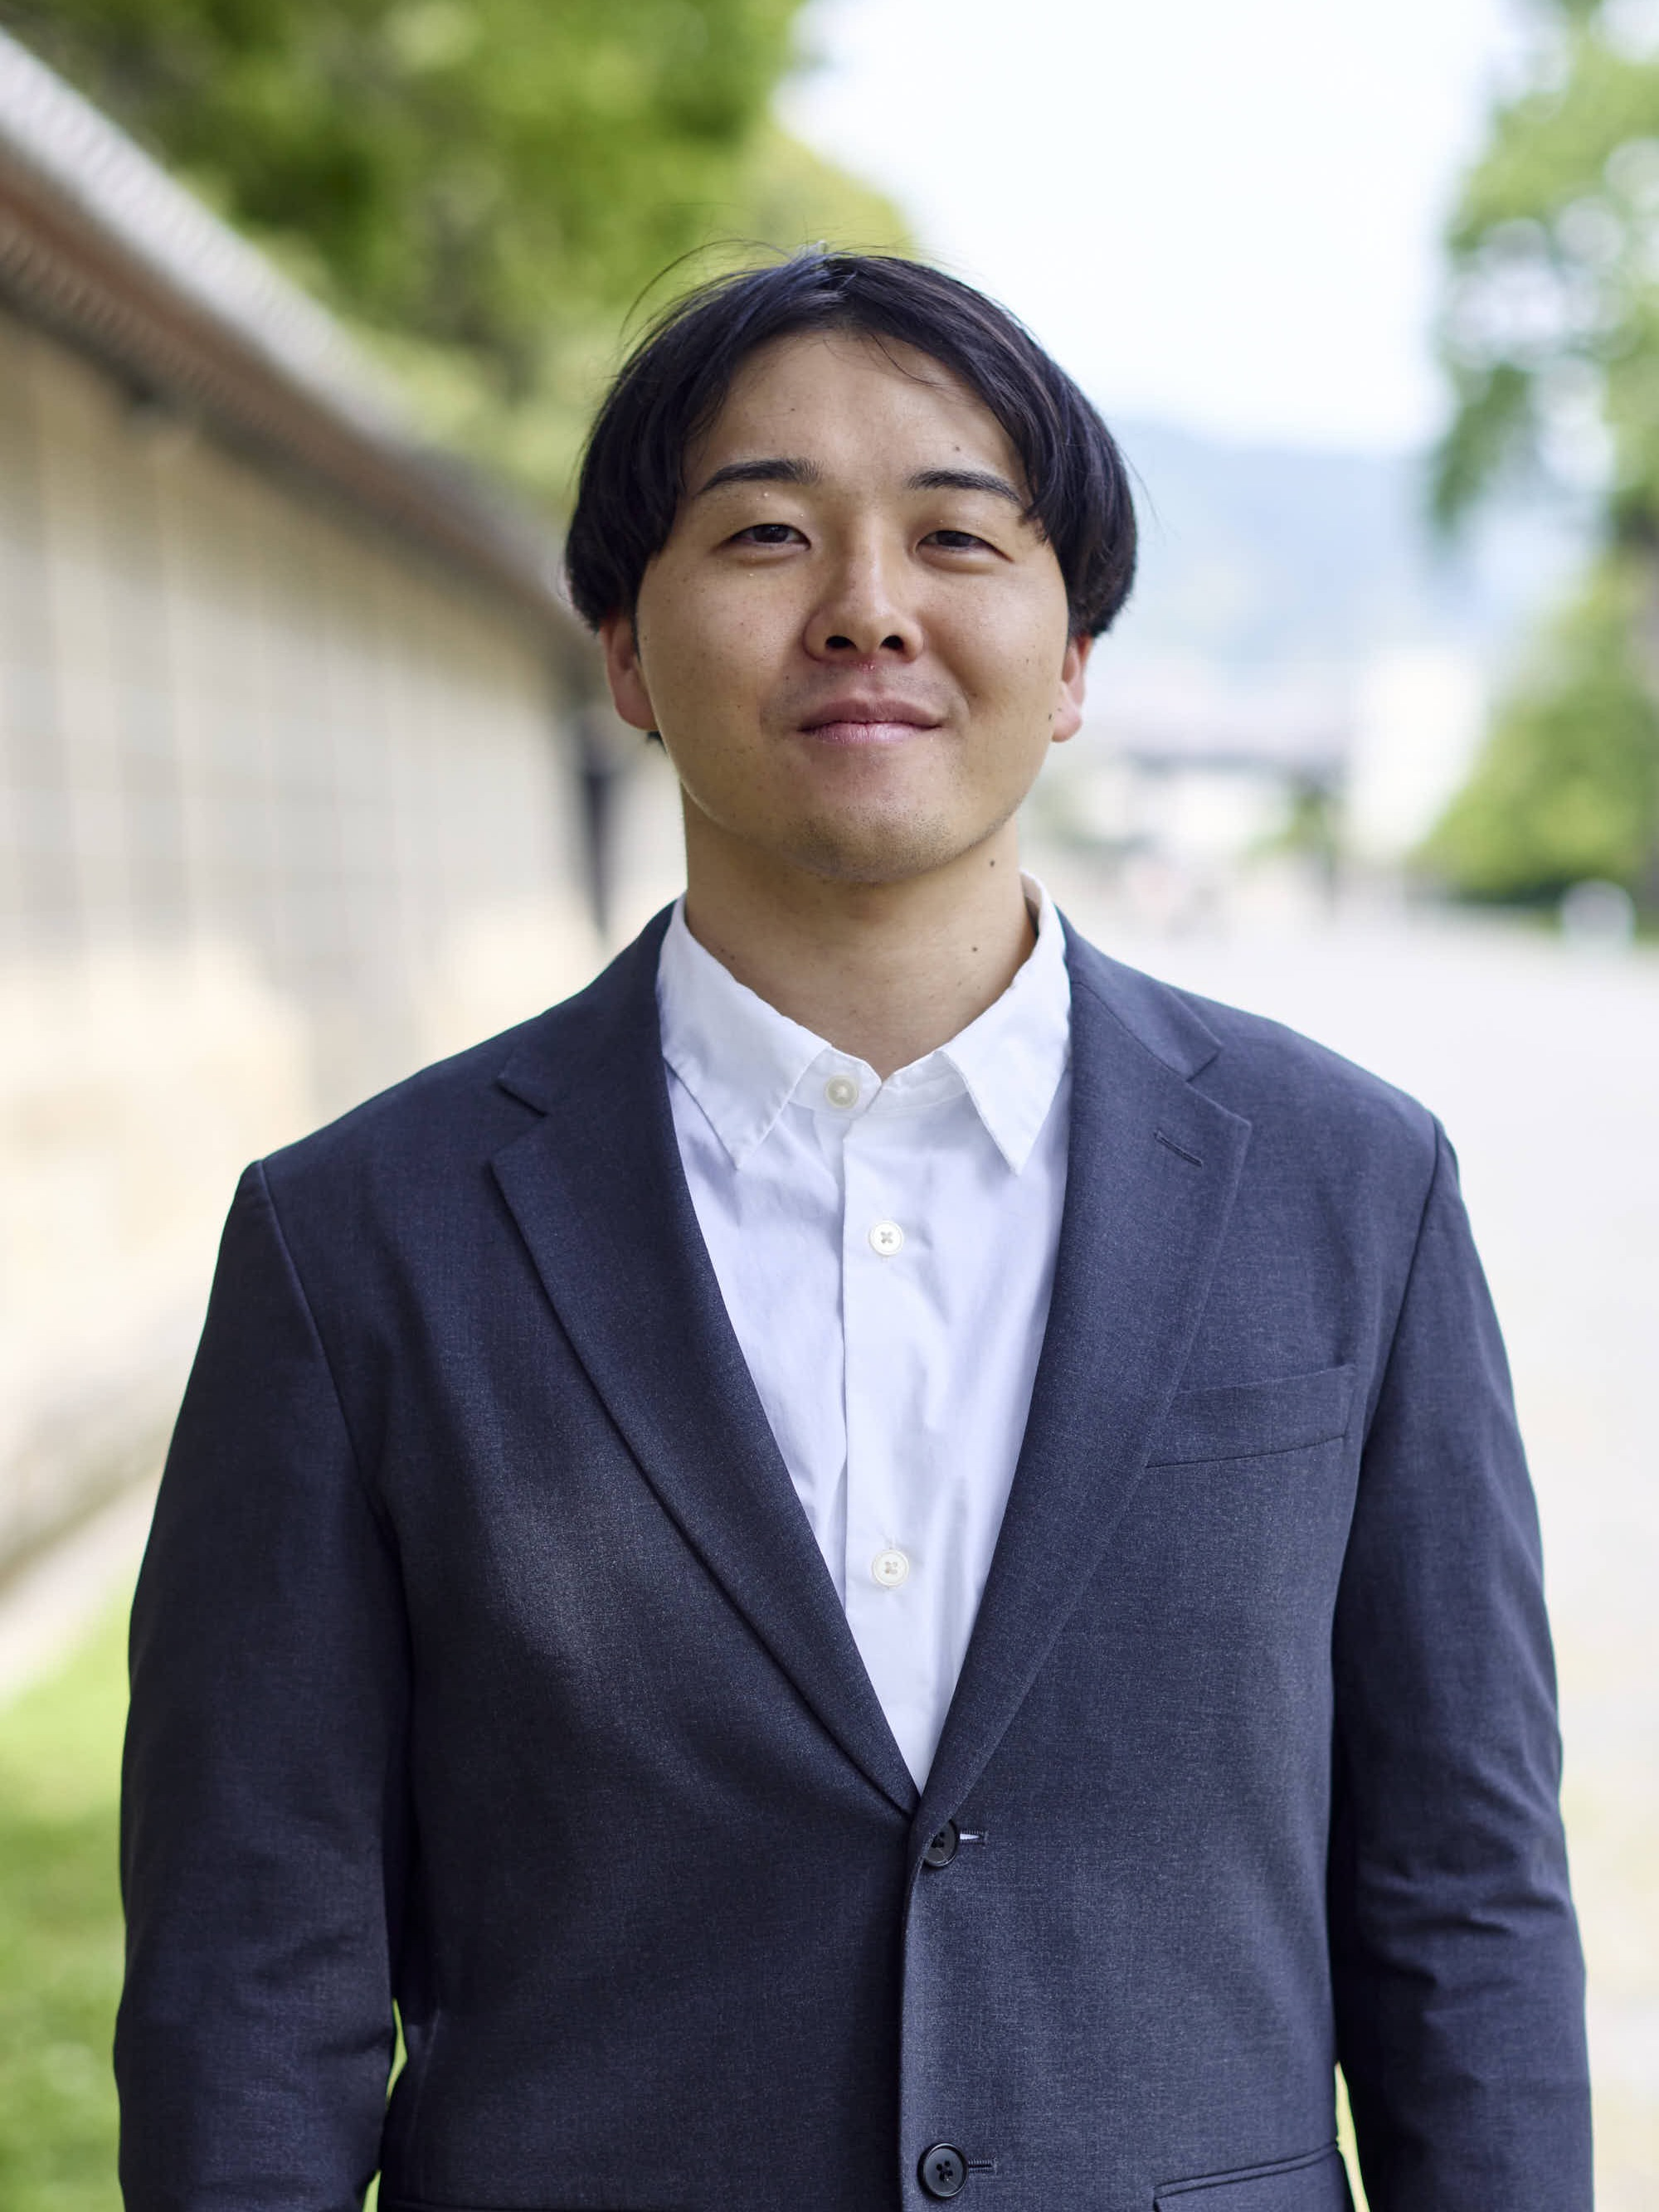
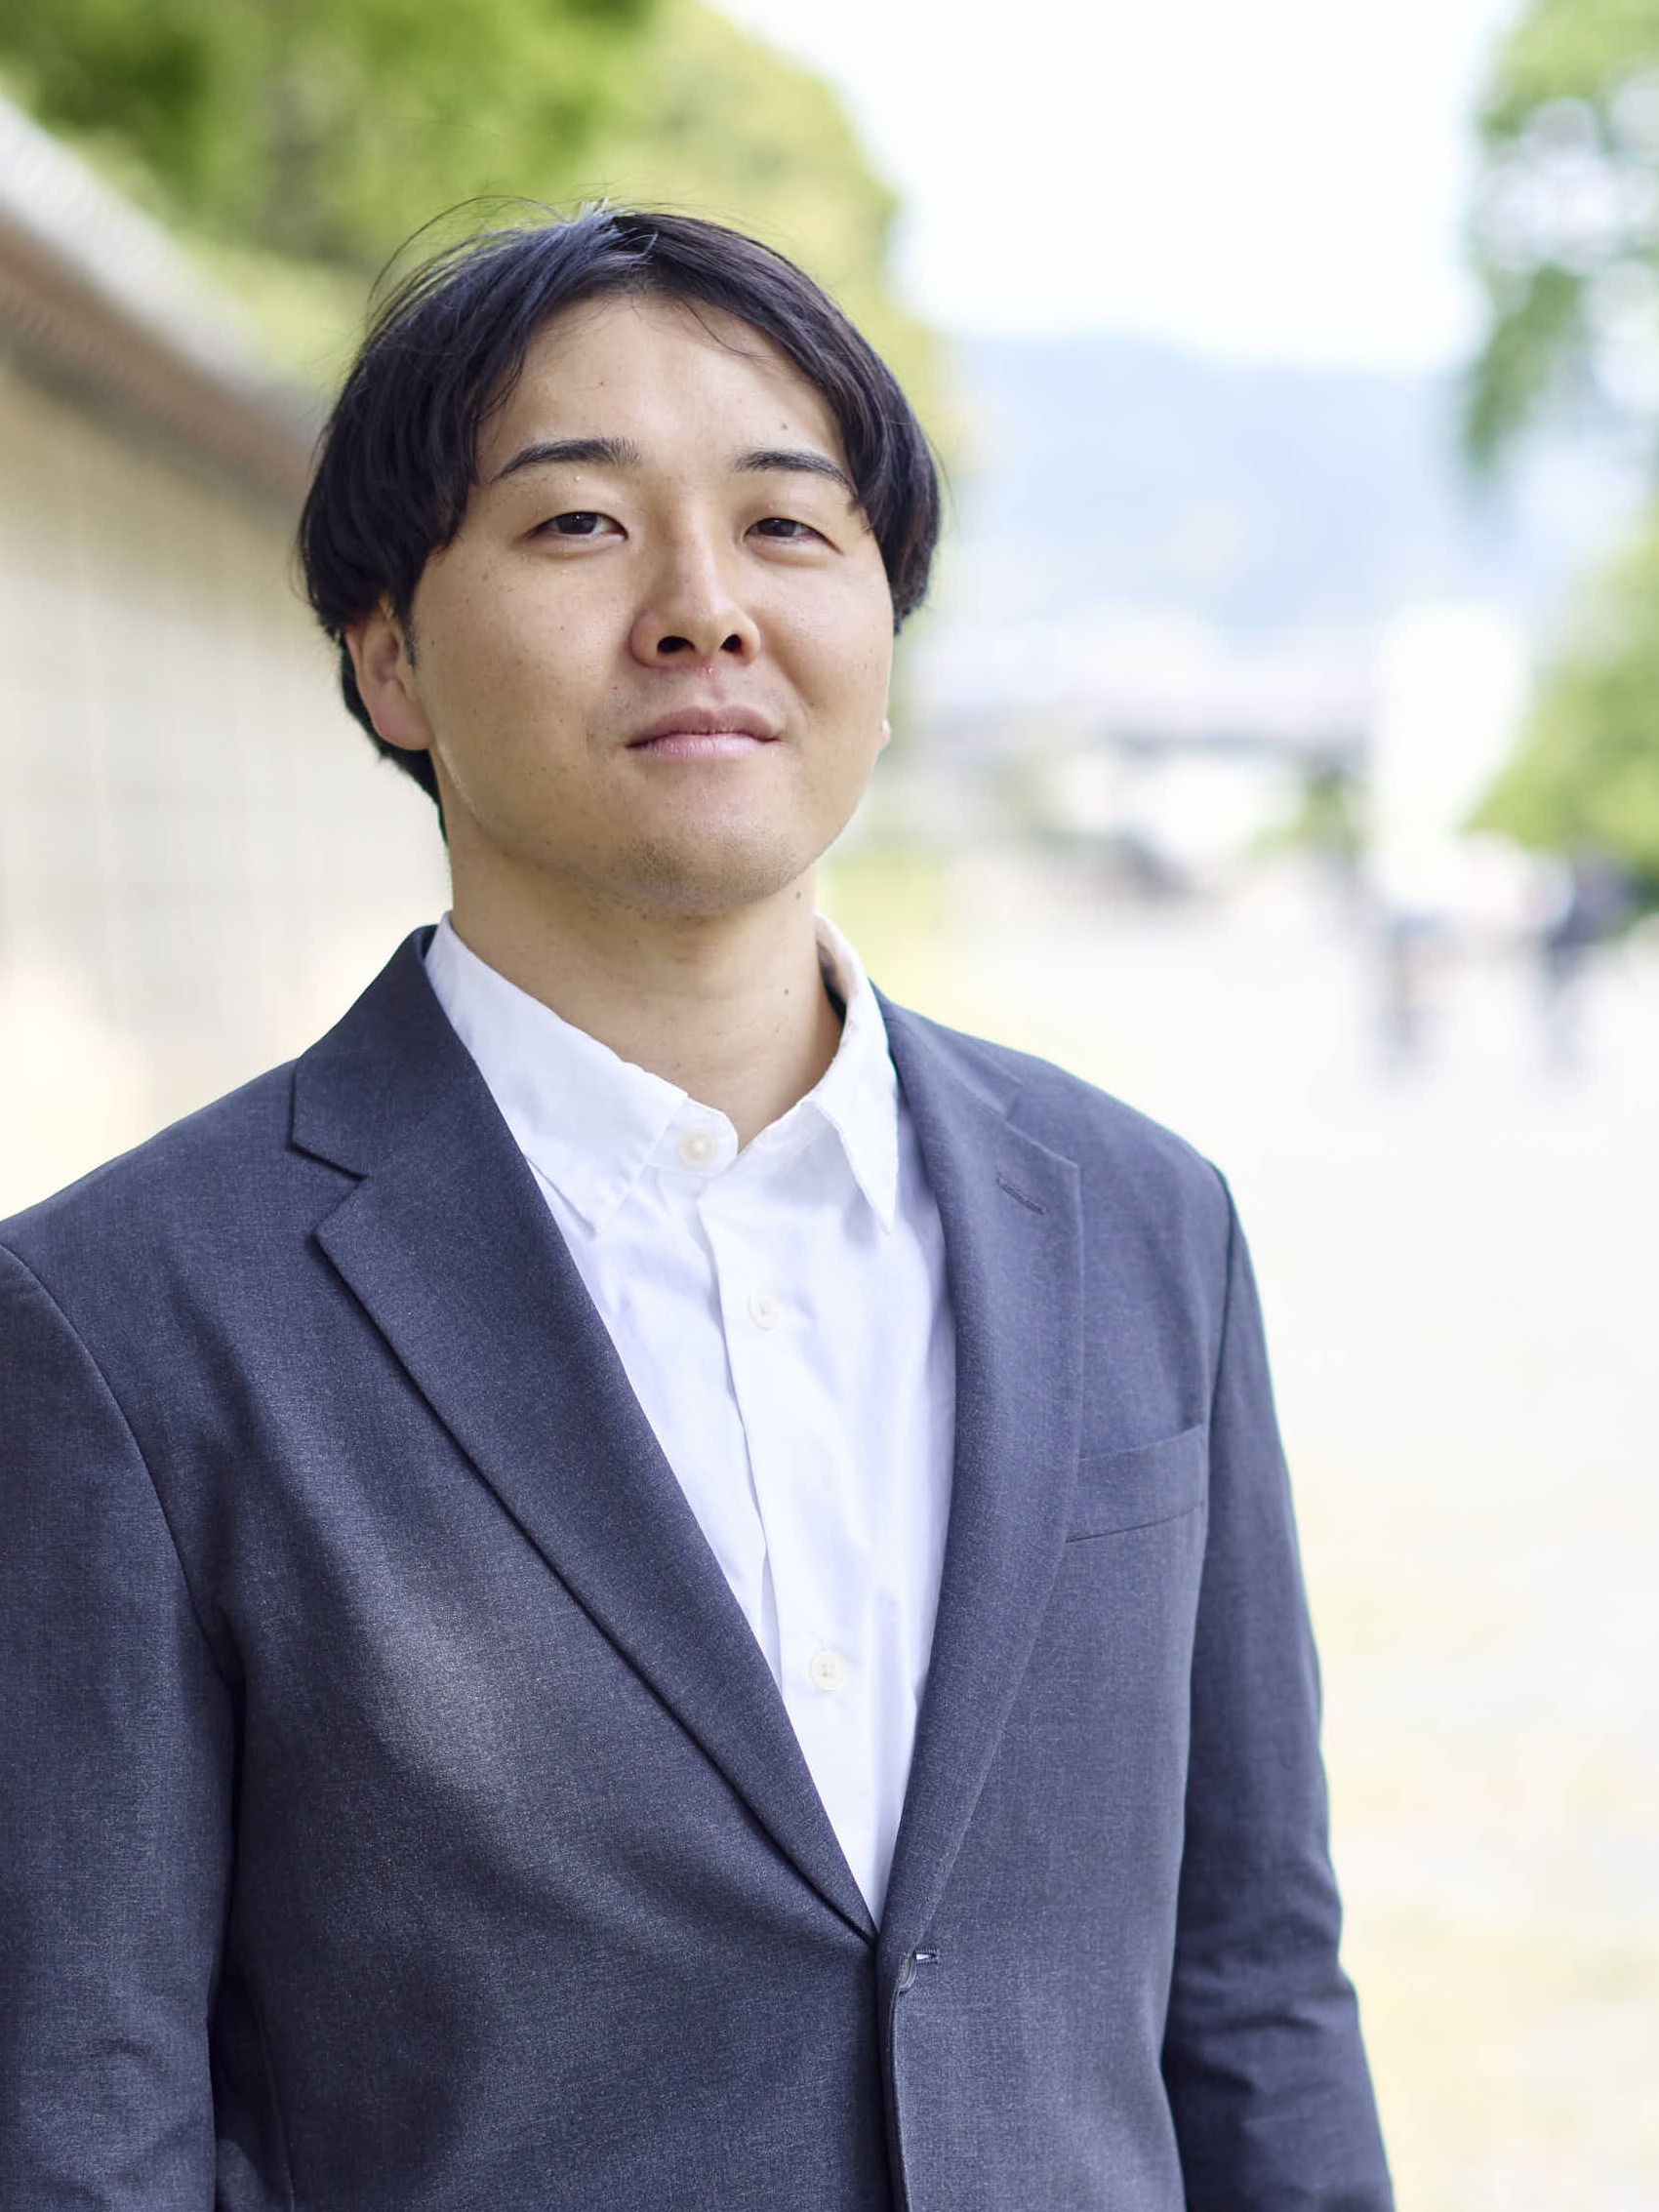
fix: 田中プロフを差し替え・モバイルで顔が見切れないよう上揃えに

diff --git a/src/components/sections/member/MemberListSection.tsx b/src/components/sections/member/MemberListSection.tsx
@@ -111,7 +111,7 @@ export default function MemberListSection({ members }: MemberListSectionProps) {
                           src={member.image}
                           alt={member.name}
                           fill
-                          className="object-cover transition-all duration-500"
+                          className="object-cover object-top transition-all duration-500"
                         />
                       ) : (
                         <div className="w-full h-full bg-gray-100 flex items-center justify-center">